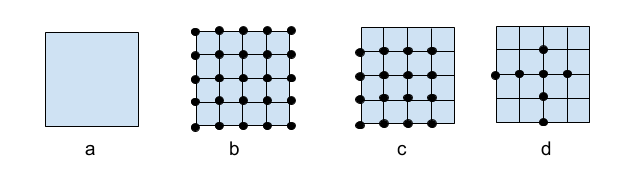
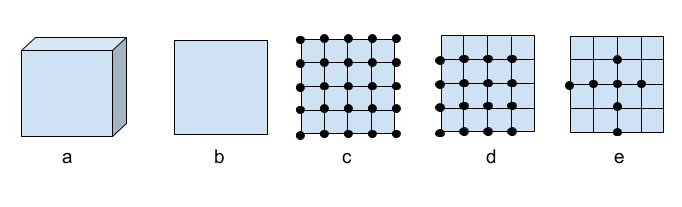
Add extra multi dimensional figure to search space and related text changes

diff --git a/iterative.tex b/iterative.tex
@@ -15,13 +15,13 @@ The main challenge in such methods is to limit the number of trials, since each 
 
 \noindent\subsubsection*{\bf Parameter reduction: }
 \label{sec:paramreduction}
-The search space is exponential in the number of parameters to be optimized. There are a large number of parameters that can be set for any query. As described in Section~\ref{sec:optmethod}, we have identified a smaller set of parameters that have a relatively larger impact on the performance of sql queries. We restrict the search to these parameters, thus reducing the search space. These parameters have been listed in Tables~\ref{table:job_params}. The search space with a restricted set of parameters is shown in Figure~\ref{fig:searchspace}(a).
+The search space is exponential in the number of parameters to be optimized. There are a large number of parameters that can be set for any query. As described in Section~\ref{sec:optmethod}, we have identified a smaller set of parameters that have a relatively larger impact on the performance of sql queries. We restrict the search to these parameters, thus reducing the search space. These parameters have been listed in Tables~\ref{table:job_params}. The search space with a restricted set of parameters is shown in Figure~\ref{fig:searchspace}(b).
 \noindent\subsubsection*{\bf Discretization: }
-Each parameter, such as memory or partition size, can take a large number of values. However, it can be observed that small changes in the parameters do not have a significant impact. Thus, instead of trying each possible value, it is sufficient to discretize the parameter range and consider only a subset of values for each parameter. These values are placed at a reasonable distance from each other so as to have a significant impact on the query performance. For example, instead of varying memory in units of 1 MB, we can vary it in multiples of 128 MB. The resulting search space is shown in Figure~\ref{fig:searchspace}(b).
+Each parameter, such as memory or partition size, can take a large number of values. However, it can be observed that small changes in the parameters do not have a significant impact. Thus, instead of trying each possible value, it is sufficient to discretize the parameter range and consider only a subset of values for each parameter. These values are placed at a reasonable distance from each other so as to have a significant impact on the query performance. For example, instead of varying memory in units of 1 MB, we can vary it in multiples of 128 MB. The resulting search space is shown in Figure~\ref{fig:searchspace}(c).
 \noindent\subsubsection*{\bf Range reduction: }
-The range of values for each parameter is further restricted based on domain knowledge about what a good range for that parameter would be.  The knowledge about a good range can be gained by either talking to experts or by looking at some other metrics. For example, for the Hive on MR engine, consider the mapper\_time metric that measures the average time taken by a mapper. If the mapper time is too low, the overhead of starting the mappers is large compared to the actual work done by the mapper. Since the mapper time is inversely related to the number of mappers, the number of mappers need to be reduced. On the other hand, if the mapper time is large, then the job parallelism is restricted and the end to end clock time taken for the query will be high. In this case, more mappers are needed to reduce the work that each mapper has to do. A good acceptable range for this metric could be from 240s till 1800s.  If a set of config params results in mapper\_time beyond the acceptable range, it should not be considered in the search process. For example, mapper\_time is affected by mapreduce.input.fileinputformat.split.maxsize and the correlation is direct, i.e. mapper\_time  increases as we increase mapreduce.input.fileinputformat.split.maxsize.  Thus the split maxsize should be constrained to a range that will lead to a reasonable mapper\_time. In our experiments, we restricted splitsize to between 128 MB and 1 GB. The resulting search space is shown in Figure~\ref{fig:searchspace}(c).
+The range of values for each parameter is further restricted based on domain knowledge about what a good range for that parameter would be.  The knowledge about a good range can be gained by either talking to experts or by looking at some other metrics. For example, for the Hive on MR engine, consider the mapper\_time metric that measures the average time taken by a mapper. If the mapper time is too low, the overhead of starting the mappers is large compared to the actual work done by the mapper. Since the mapper time is inversely related to the number of mappers, the number of mappers need to be reduced. On the other hand, if the mapper time is large, then the job parallelism is restricted and the end to end clock time taken for the query will be high. In this case, more mappers are needed to reduce the work that each mapper has to do. A good acceptable range for this metric could be from 240s till 1800s.  If a set of config params results in mapper\_time beyond the acceptable range, it should not be considered in the search process. For example, mapper\_time is affected by mapreduce.input.fileinputformat.split.maxsize and the correlation is direct, i.e. mapper\_time  increases as we increase mapreduce.input.fileinputformat.split.maxsize.  Thus the split maxsize should be constrained to a range that will lead to a reasonable mapper\_time. In our experiments, we restricted splitsize to between 128 MB and 1 GB. The resulting search space is shown in Figure~\ref{fig:searchspace}(d).
 \noindent\subsubsection*{\bf Dimension independence: } 
-We make an assumption that the parameters are not correlated to each other. This enables us to optimize each parameter independently of the others. Thus, rather than exploring all the points in the search space, the algorithm explores only one set of values for each parameter as show in Figure~\ref{fig:searchspace}(d). This is a very strong assumption, which may not hold in practice. For example, the mapper memory (mapreduce.map.memory.mb) and the splitsize (mapreduce.input.fileinputformat.split.maxsize) are correlated, since more memory is needed by the mappers as the splitsize increases if spills are to be avoided. Even in this case, the algorithm will find the best value for memory after fixing the splitsize or the best splitsize after fixing the memory. So overall the configuration chosen will be a reasonably good one.
+We make an assumption that the parameters are not correlated to each other. This enables us to optimize each parameter independently of the others. Thus, rather than exploring all the points in the search space, the algorithm explores only one set of values for each parameter as show in Figure~\ref{fig:searchspace}(e). This is a very strong assumption, which may not hold in practice. For example, the mapper memory (mapreduce.map.memory.mb) and the splitsize (mapreduce.input.fileinputformat.split.maxsize) are correlated, since more memory is needed by the mappers as the splitsize increases if spills are to be avoided. Even in this case, the algorithm will find the best value for memory after fixing the splitsize or the best splitsize after fixing the memory. So overall the configuration chosen will be a reasonably good one.
 
 \subsection{Algorithm}
 The overall method is listed in Algorithm~\ref{alg:iterativesearch} and is fairly straightforward. It starts with the default value for each configuration parameter (Line 1). It then iterates over the parameters and for each parameter it explores a range of values from low to high, varying it with a minimum step size (Lines 2--6). It runs the query with the chosen parameter values and measures the metric (such as running time or utilization). It finds the value for which the metric is optimized and fixes the value of the parameter to that value before moving on the next parameter (lines 7--12). Finally, it outputs the set of good parameter values $V$ that are discovered in the process.

diff --git a/EE.tex b/EE.tex
@@ -63,11 +63,11 @@
 
 
 \begin{abstract}
-More and more companies are running Big Data workloads on cloud platforms. Configuration tuning of these data engines continues to be an essential but difficult undertaking. Cloud platforms further add to this complexity due to elasiticity of compute resources and availability of different machine types. Data engineers have to choose the correct machine type as well as the number of machines along with the other configuration options.
+More and more companies are running Big Data workloads on cloud platforms. Configuration tuning of these data engines continues to be an essential but difficult undertaking. Cloud platforms further add to this complexity due to elasticity of compute resources and availability of different machine types. Data engineers have to choose the correct machine type as well as the number of machines along with the other configuration options.
 
-In this paper, we address the problem of automatically determining good configuration parameters for SQL workloads with the goal of optimizing resource usage and cost. We present two alternatives -- an iterative method based on repeatedly executing queries with different configuration parameters and a model based method derived from simple rules and insights. We studied the effectiveness and practical usefulness of these methods on both synthetic and real workloads.
+In this paper, we address the problem of automatically determining good configuration parameters for SQL workloads with the goal of optimizing resource usage and cost. We present two alternatives -- an iterative method based on repeatedly executing queries with different configuration parameters and a model based method based on simple rules and insights. We studied the effectiveness and practical usefulness of these methods on both synthetic and real workloads.
 
-We show that very simple models of SQL Data Engines can provide very good recommendations compared to the default configuration. In fact, we found that these were often better than those chosen by experts on real customer workloads. We chose to focus on SQL workloads because SQL or SQL-like languages continue to be the most popular choice of ETL engineers and analysts. 
+We show that very simple models of SQL Data Engines can provide very good recommendations compared to the default configuration. In fact, we found that these were often better than those chosen by experts on real customer workloads. We chose to focus on SQL workloads because SQL or SQL-like languages continue to be the most popular choice of ETL engineers and analysts.  However, the principles behind our model based approach are generic and can be adopted for any big data engine. 
 \end{abstract}
 \eat{
 \begin{CCSXML}
